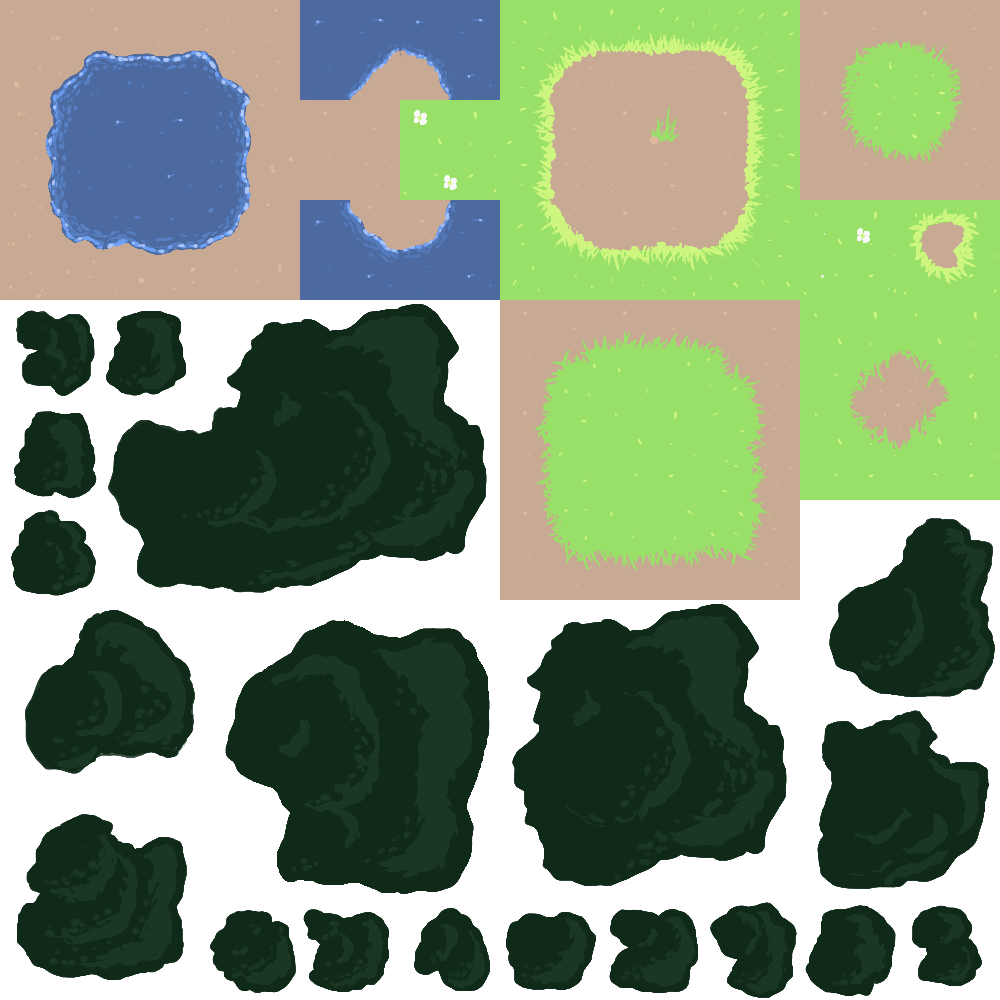
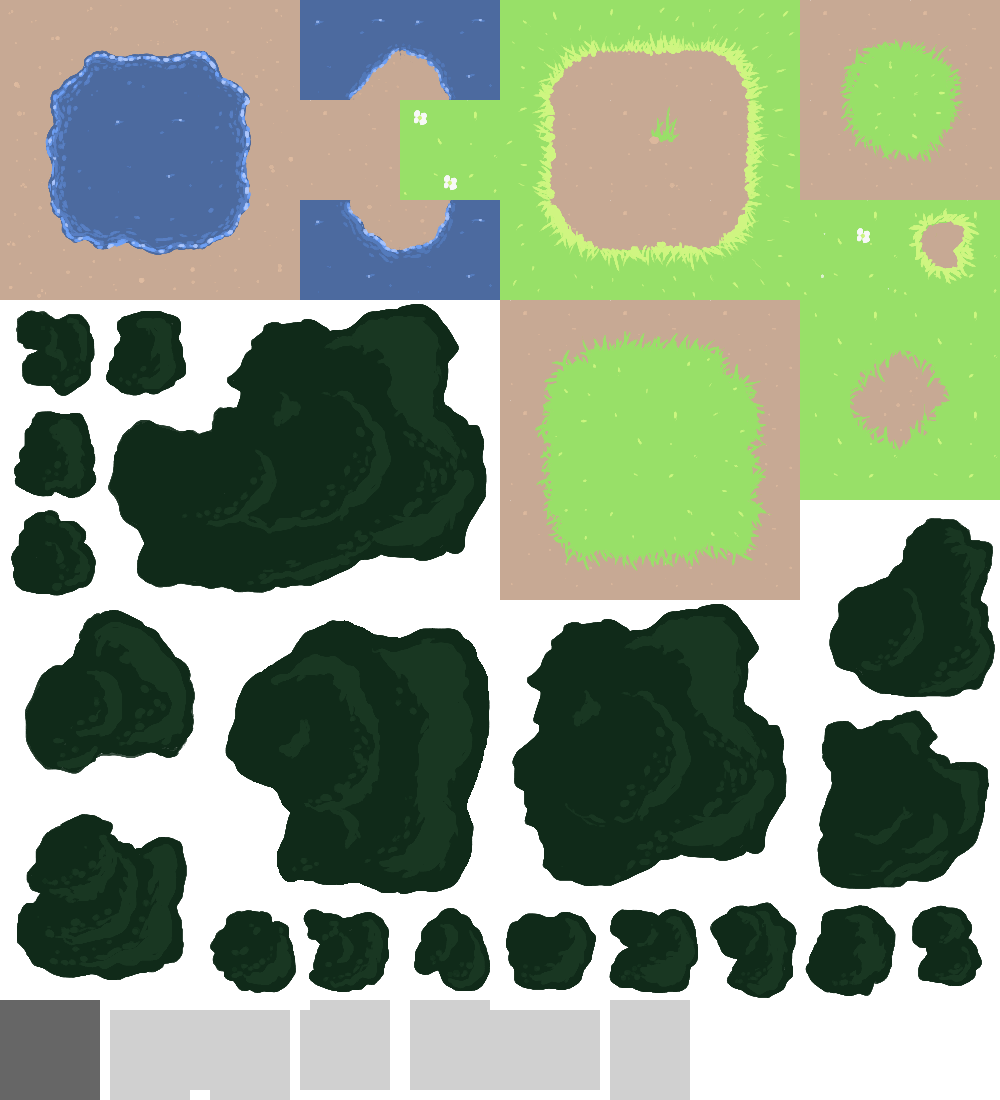
Compounds begun!

diff --git a/Hunted/TerrainGeneration.cs b/Hunted/TerrainGeneration.cs
@@ -17,7 +17,7 @@ namespace Hunted
         const int GRASS = 47;
         const int GRASS_ALT1 = 15;
         const int GRASS_ALT2 = 29;
-        const int CONCRETE = 60;
+        const int CONCRETE = 101;
 
         const int SAND_EDGE_UP = 22;
         const int SAND_EDGE_DOWN = 2;
@@ -49,8 +49,15 @@ namespace Hunted
         const int GRASS_CORNER_OUTSIDE_BL = 56;
         const int GRASS_CORNER_OUTSIDE_BR = 58;
 
+        const int WALL_HORIZ = 106;
+        const int WALL_VERT = 107;
+        const int WALL_TL = 102;
+        const int WALL_TR = 103;
+        const int WALL_BL = 105;
+        const int WALL_BR = 104;
+
         const int TREE = 31;
-        static int[] TREES = new int[] { 31, 32, 41, 51, 93, 94, 95, 96, 97, 98, 99 };
+        static int[] TREES = new int[] { 31, 32, 41, 51, 93, 94, 95, 96, 97, 98, 99, 100 };
         static List<Rectangle> BIG_TREES = new List<Rectangle>() {
             new Rectangle(2,4,4,3),
             new Rectangle(1,7,2,2),
@@ -346,16 +353,96 @@ namespace Hunted
 
                             if (bounds.Width >= minsize && bounds.Height >= minsize)
                             {
+                                Compound newCompound = new Compound() { Position = thisLoc };
+
                                 for (int xx = bounds.Left; xx <= bounds.Right; xx++)
+                                {
                                     for (int yy = bounds.Top; yy <= bounds.Bottom; yy++)
                                     {
                                         wallLayer.Tiles[xx, yy] = null;
-                                        if(xx>bounds.Left+2 && xx<bounds.Right-2 && yy>bounds.Top+2 && yy<bounds.Bottom-2)
+                                        if (xx > bounds.Left + 2 && xx < bounds.Right - 2 && yy > bounds.Top + 2 && yy < bounds.Bottom - 2)
                                             terrainLayer.Tiles[xx, yy] = map.Tiles[CONCRETE];
-               
                                     }
+                                }
 
-                                compounds.Add(new Compound() { Position = thisLoc, Rect = bounds });
+                                Rectangle innerBounds = bounds;
+                                innerBounds.Inflate(-3, -3);
+
+                                // Outer walls
+                                wallLayer.Tiles[innerBounds.Left, innerBounds.Top] = map.Tiles[WALL_TL];
+                                wallLayer.Tiles[innerBounds.Right, innerBounds.Top] = map.Tiles[WALL_TR];
+                                wallLayer.Tiles[innerBounds.Left, innerBounds.Bottom] = map.Tiles[WALL_BL];
+                                wallLayer.Tiles[innerBounds.Right, innerBounds.Bottom] = map.Tiles[WALL_BR];
+
+                                for (int xx = innerBounds.Left + 1; xx <= innerBounds.Right - 1; xx++)
+                                {
+                                    wallLayer.Tiles[xx, innerBounds.Top] = map.Tiles[WALL_HORIZ];
+                                    wallLayer.Tiles[xx, innerBounds.Bottom] = map.Tiles[WALL_HORIZ];
+                                } 
+                                for (int yy = innerBounds.Top + 1; yy <= innerBounds.Bottom - 1; yy++)
+                                {
+                                    wallLayer.Tiles[innerBounds.Left,yy] = map.Tiles[WALL_VERT];
+                                    wallLayer.Tiles[innerBounds.Right,yy] = map.Tiles[WALL_VERT];
+                                }
+
+                                newCompound.Bounds = bounds;
+                                newCompound.InnerBounds = innerBounds;
+
+                                // Exits
+                                bool[] exits = new bool[4] { false, false, false, false };
+                                for(int i=0;i<4;i++)
+                                    exits[rand.Next(4)] = true;
+
+                                bool carparkPlaced = false;
+
+                                if (exits[0])
+                                {
+                                    int doorx = rand.Next(innerBounds.Width - 7) + 3;
+                                    for (int xx = innerBounds.Left + doorx; xx < (innerBounds.Left + doorx) + 4; xx++) wallLayer.Tiles[xx, innerBounds.Top] = null;
+                                    if (!carparkPlaced && rand.Next(5) == 1)
+                                    {
+                                        Building cp = new Building() { Type = BuildingType.Carpark, Rect = new Rectangle((innerBounds.Left + doorx), innerBounds.Top + 2, 4, 4) };
+                                        newCompound.Buildings.Add(cp);
+                                        carparkPlaced = true;
+                                    }
+                                }
+                                if (exits[1])
+                                {
+                                    int doorx = rand.Next(innerBounds.Width - 7) + 3;
+                                    for (int xx = innerBounds.Left + doorx; xx < (innerBounds.Left + doorx) + 4; xx++) wallLayer.Tiles[xx, innerBounds.Bottom] = null;
+                                    if (!carparkPlaced && rand.Next(5) == 1)
+                                    {
+                                        Building cp = new Building() { Type = BuildingType.Carpark, Rect = new Rectangle((innerBounds.Left + doorx), innerBounds.Top -6, 4, 4) };
+                                        newCompound.Buildings.Add(cp);
+                                        carparkPlaced = true;
+                                    }
+                                }
+                                if (exits[2])
+                                {
+                                    int doory = rand.Next(innerBounds.Height - 7) + 3;
+                                    for (int yy = innerBounds.Top + doory; yy < (innerBounds.Top + doory) + 4; yy++) wallLayer.Tiles[innerBounds.Left,yy] = null;
+                                    if (!carparkPlaced && rand.Next(5) == 1)
+                                    {
+                                        Building cp = new Building() { Type = BuildingType.Carpark, Rect = new Rectangle(innerBounds.Left + 2, (innerBounds.Top + doory), 4, 4) };
+                                        newCompound.Buildings.Add(cp);
+                                        carparkPlaced = true;
+                                    }
+                                }
+                                if (exits[3])
+                                {
+                                    int doory = rand.Next(innerBounds.Height - 7) + 3;
+                                    for (int yy = innerBounds.Top + doory; yy < (innerBounds.Top + doory) + 4; yy++) wallLayer.Tiles[innerBounds.Right, yy] = null;
+                                    if (!carparkPlaced && rand.Next(5) == 1)
+                                    {
+                                        Building cp = new Building() { Type = BuildingType.Carpark, Rect = new Rectangle(innerBounds.Right - 6, (innerBounds.Top + doory), 4, 4) };
+                                        newCompound.Buildings.Add(cp);
+                                        carparkPlaced = true;
+                                    }
+                                }
+
+
+
+                                compounds.Add(newCompund);
                             }
                         }
                     }
@@ -382,12 +469,6 @@ namespace Hunted
                     if (GetTileIndex(map, layer, xx, yy) == index && !(x == xx && y == yy)) count++;
 
             return count;
-        }
-
-        class Compound
-        {
-            public Vector2 Position;
-            public Rectangle Rect;
         }
     }
 }

diff --git a/Hunted/Compound.cs b/Hunted/Compound.cs
@@ -1,0 +1,30 @@
+using Microsoft.Xna.Framework;
+using System;
+using System.Collections.Generic;
+using System.Linq;
+using System.Text;
+
+namespace Hunted
+{
+    class Compound
+    {
+        public Vector2 Position;
+        public Rectangle Bounds;
+        public Rectangle InnerBounds;
+
+        public List<Building> Buildings = new List<Building>();
+    }
+
+    public enum BuildingType
+    {
+        Building,
+        Helipad,
+        Carpark
+    }
+
+    class Building
+    {
+        public BuildingType Type;
+        public Rectangle Rect;
+    }
+}
